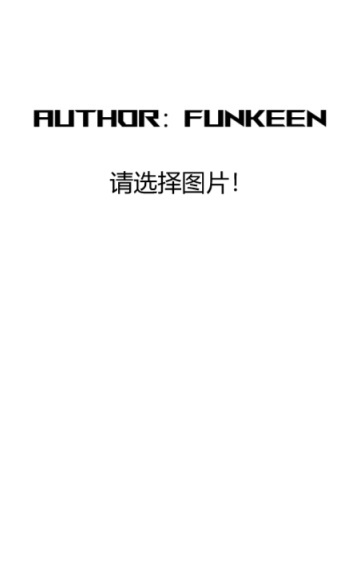
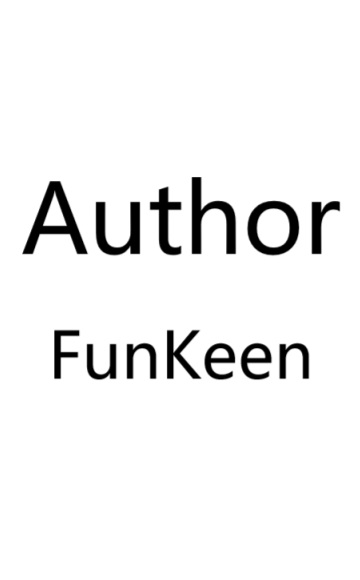
changes

diff --git a/window.py b/window.py
@@ -31,7 +31,7 @@ class Alprs(QMainWindow):
         self.font.setPointSize(12)
 
         self.init_ui()
-        self.yolo = self.load_yolo('yolov5/runs/train/exp2/weights/best.pt')
+        self.yolo = self.load_yolo('yolov5/runs/train/exp3/weights/best.pt')
         self.crnn = self.load_crnn('crnn/best_crnn.pth', 'cpu')
         self.decoder = Decoder(characters)
 
@@ -57,7 +57,7 @@ class Alprs(QMainWindow):
 
     def init_ui(self):
         self.setWindowTitle('车牌自动识别系统')
-        self.setGeometry(100, 100, 400, 650)
+        self.setGeometry(100, 100, 400, 700)
 
         # 创建主控件和布局
         central_widget = QWidget()
@@ -97,7 +97,7 @@ class Alprs(QMainWindow):
         self.image_label = QLabel()
         self.image_label.setMinimumSize(1, 1)
         self.image_label.setPixmap(QPixmap.fromImage(self.numpy2qimage(cv2.imread('show.jpg'))))
-        main_layout.addWidget(self.image_label, alignment=Qt.AlignmentFlag.AlignBottom)
+        main_layout.addWidget(self.image_label, alignment=Qt.AlignmentFlag.AlignCenter)
 
     def on_decrease(self):
         current = float(self.label_confidence.text())
@@ -127,6 +127,15 @@ class Alprs(QMainWindow):
         )
         if file_path:
             img, results = self.plate_positioning_recognition(file_path)
+            # 缩小图片，方便显示
+            scaled_width = int(img.width() * 0.5)
+            scaled_height = int(img.height() * 0.5)
+            img = img.scaled(
+                scaled_width,
+                scaled_height,
+                Qt.AspectRatioMode.KeepAspectRatio,
+                Qt.TransformationMode.SmoothTransformation
+            )
             out_img = self.draw(img, results)
             if not img is None:
                 self.image_label.setPixmap(out_img)
@@ -172,15 +181,6 @@ class Alprs(QMainWindow):
     # 可视化结果
     def draw(self, img, results):
         if results:
-            # 缩小图片，方便显示
-            scaled_width = int(img.width() * 0.5)
-            scaled_height = int(img.height() * 0.5)
-            img = img.scaled(
-                scaled_width,
-                scaled_height,
-                Qt.AspectRatioMode.KeepAspectRatio,
-                Qt.TransformationMode.SmoothTransformation
-            )
             painter = QPainter(img)
             painter.setFont(self.font)
             painter.setPen(self.pen_red)
